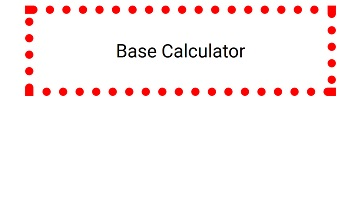
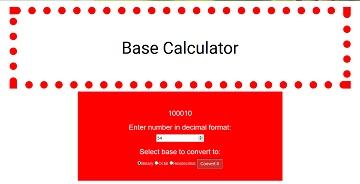
convert numbers from decimal to binary, ocactal, or hexidecimal

diff --git a/js/scripts.js b/js/scripts.js
@@ -1,6 +1,34 @@
 //alert("jQuery is working on " + $("h1").text()); //test for jQuery linked and loaded correctly
+//business logic
+function convertBase(num, base) {
+  var numberSet=["0","1","2","3","4","5","6","7","8","9","a","b","c","d","e","f","g","h","i","j"];
+  var convertedNumber="";
+  if (base>20) {
+    convertedNumber = "Sorry, Base Calculator only works up to base 20.";
+  } else {
+    if (base===2) {
+      convertedNumber = num.toString(2);
+    }
+    if (base===8) {
+      convertedNumber = num.toString(8);
+    }
+    if (base===16) {
+      convertedNumber = num.toString(16);
+    }
+/* to replace "toString" with calculated answer later...
+    for(i=0; i<base; i++) {
+      convertedNumber+=numberSet[i];
+    }
+*/
+  }
 
+  return convertedNumber;
+}
+
+//user interface logic
 $("#convert").click(function() {
-  alert($("#myNumber").val());
-  alert($("input[name=base]:radio").val());
+  var yourNumber = parseInt($("#myNumber").val());
+  var yourBase = parseInt($("input[name=base]:checked").val());
+//alert(yourBase);
+  $("#results").text(convertBase(yourNumber, yourBase));
 });

diff --git a/index.html b/index.html
@@ -13,14 +13,14 @@
     <div class="container">
       <h1>Base Calculator</h1>
       <div id="appSpace">
+        <h3 id="results"></h3>
         <h3>Enter number in decimal format:</h3>
         <input type="number" id="myNumber">
         <h3>Select base to convert to:</h3>
         <input type="radio" name="base" value=2>Binary</input>
         <input type="radio" name="base" value=8>Octal</input>
         <input type="radio" name="base" value=16>Hexidecimal</input>
-        <button id="convert">Convert It</button>
-        <h3 id="results"></h3>
+        <button id="convert" class="btn btn-danger">Convert It</button>
       </div>
     </div>
   <script src="js/jquery-1.12.2.js"></script>

diff --git a/css/styles.css b/css/styles.css
@@ -1,6 +1,7 @@
 body {
   background-color: white;
 }
+
 h1 {
   background-color: #white;
   color: black;
@@ -18,4 +19,8 @@ h1 {
   margin: auto;
   padding: 40px;
   text-align: center;
+}
+
+#appSpace input, .btn {
+  color: black;
 }

diff --git a/README.md b/README.md
@@ -1,19 +1,13 @@
 # [Base Convergter](http://karenfreemansmith.github.io/basecalculator)
 ![project screenshot](/img/screenshot.jpg)
 
-__Version 1: April 18, 2016__
+__Version 1: April 22, 2016__
 ## by [Karen Freeman-Smith](http://karenfreemansmith.github.io)
 
 ### Description
-__*A blank website with basic files setup for starting new projects with local Bootstrap and jQuery files linked.*__
+__*A website to convert numbers from decimal to other base systems.*__
 
-* Write a method to convert numbers from binary to decimal. The input should be a string, and the output an integer.
-* Add Trinary & Hexidecimal,
-* accept two numbers, one to be evaluated and the other to indicate target base.
-
-Decimal is the normal system we use for counting. We start at 0, increment until we reach 9, and then reset back to 0 and add another number to the left.
-
-In binary, we also start at zero, but we only increment until we reach 1. Then we reset back to zero and add another number to the left.
+Converts decimal to binary, ocatal or hexidecimal
 
 #### Uses:
 * [Fresh Start](http://karenfreemansmith.github.io/freshstart)
@@ -25,7 +19,7 @@ In binary, we also start at zero, but we only increment until we reach 1. Then w
 For questions or comments, please __email [Karen](karenfreemansmith@gmail.com)__
 
 ### Known Issues
-* Still Under Construction
+* Needs better function to calculate to/from any base system
 
 ### Technologies Used
 ###### HTML, CSS, Bootstrap, JavaScript, jQuery
